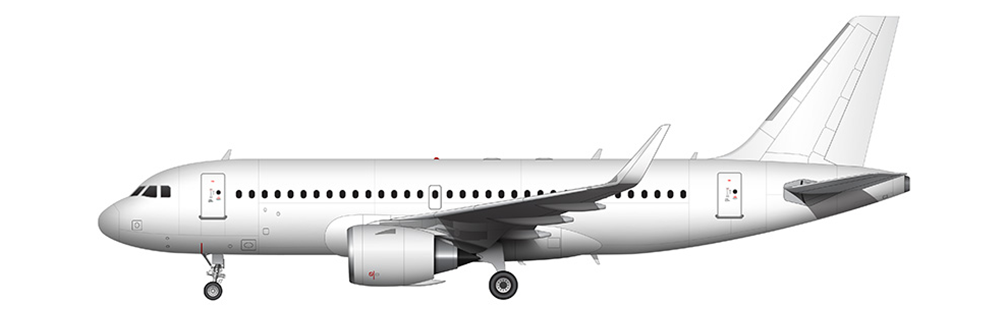
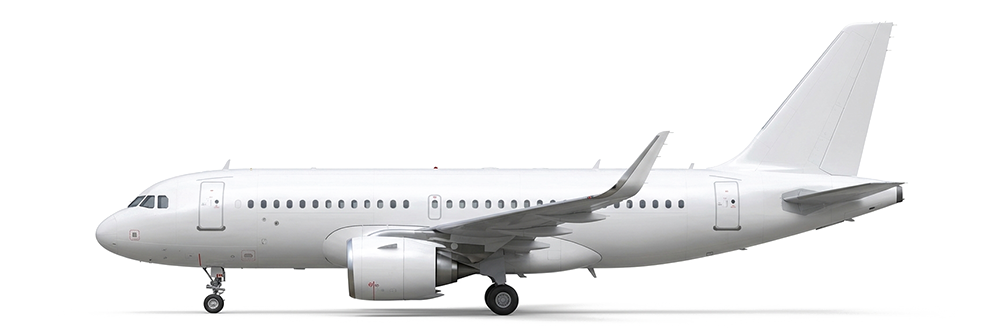
Update aircraft images and fix image filenames
- Revert Jetstream 41 filename back to without underscore
- Remove old Jetstream 41 and A319Neo images
- Update A319 Neo and Boeing 737-500 images
- Fix Boeing 747-8 image reference to match filename (747-800.png)

Changed region(s): [[0.093, 0.03, 0.93, 0.961]]

diff --git a/backend/src/database/db.js b/backend/src/database/db.js
@@ -420,7 +420,7 @@ async function initDatabase() {
     (42,'Bombardier','CRJ-200','Bombardier CRJ-200',50,3148,786,1510,1463,0.020,0.025,'M',27000000,3,2,'Aircraft_Bombardier_CRJ-200.png'),
     (43,'Bombardier','CRJ-700','Bombardier CRJ-700',78,3620,828,1600,1524,0.021,0.026,'M',36200000,3,2,'Aircraft_Bombardier_CRJ-700.png'),
     (44,'Bombardier','CRJ-900','Bombardier CRJ-900',90,2956,828,1700,1585,0.022,0.027,'M',46300000,4,2,'Aircraft_Bombardier_CRJ-900.png'),
-    (45,'British Aerospace','Jetstream 41','British Aerospace Jetstream 41',29,1482,547,1130,1097,0.018,0.023,'L',8500000,1,2,'Aircraft_British-Aerospace_Jetstream-41_.png'),
+    (45,'British Aerospace','Jetstream 41','British Aerospace Jetstream 41',29,1482,547,1130,1097,0.018,0.023,'L',8500000,1,2,'Aircraft_British-Aerospace_Jetstream-41.png'),
     (46,'COMAC','C909','COMAC C909 (ARJ21)',95,3704,828,1700,1600,0.023,0.029,'M',38000000,5,2,'Aircraft_Comac_909.png'),
     (47,'COMAC','C919','COMAC C919',174,5555,834,2000,1700,0.024,0.030,'M',99000000,8,2,'Aircraft_Comac_919.png'),
     (48,'De Havilland','DHC-8-300','De Havilland DHC-8-300',56,1558,528,1180,1128,0.016,0.020,'M',17500000,1,2,'Aircraft_DeHavilland_DHC-8-300.png'),
@@ -439,7 +439,7 @@ async function initDatabase() {
     (61,'Boeing','777-200LR','Boeing 777-200LR',440,17370,892,3100,2100,0.036,0.046,'H',360000000,13,2,'Aircraft_Boeing_777-200.png'),
     (62,'Airbus','A321 XLR','Airbus A321 XLR',206,8700,840,2500,1980,0.022,0.028,'M',142000000,11,2,'Aircraft_Airbus_321_Neo.png'),
     (63,'Airbus','A320neo','Airbus A320neo',180,6300,840,2100,1540,0.021,0.027,'M',110000000,9,2,'Aircraft_Airbus_320_Neo.png'),
-    (64,'Boeing','747-8','Boeing 747-8',467,14320,920,3300,2200,0.044,0.055,'H',418000000,15,2,'Aircraft_Boeing_747-8.png')
+    (64,'Boeing','747-8','Boeing 747-8',467,14320,920,3300,2200,0.044,0.055,'H',418000000,15,2,'Aircraft_Boeing_747-800.png')
     ON CONFLICT (id) DO NOTHING
   `, null, 'aircraft_types seed');
   await safeQuery(`SELECT setval('aircraft_types_id_seq', COALESCE((SELECT MAX(id) FROM aircraft_types), 1))`, null, 'setval at');
